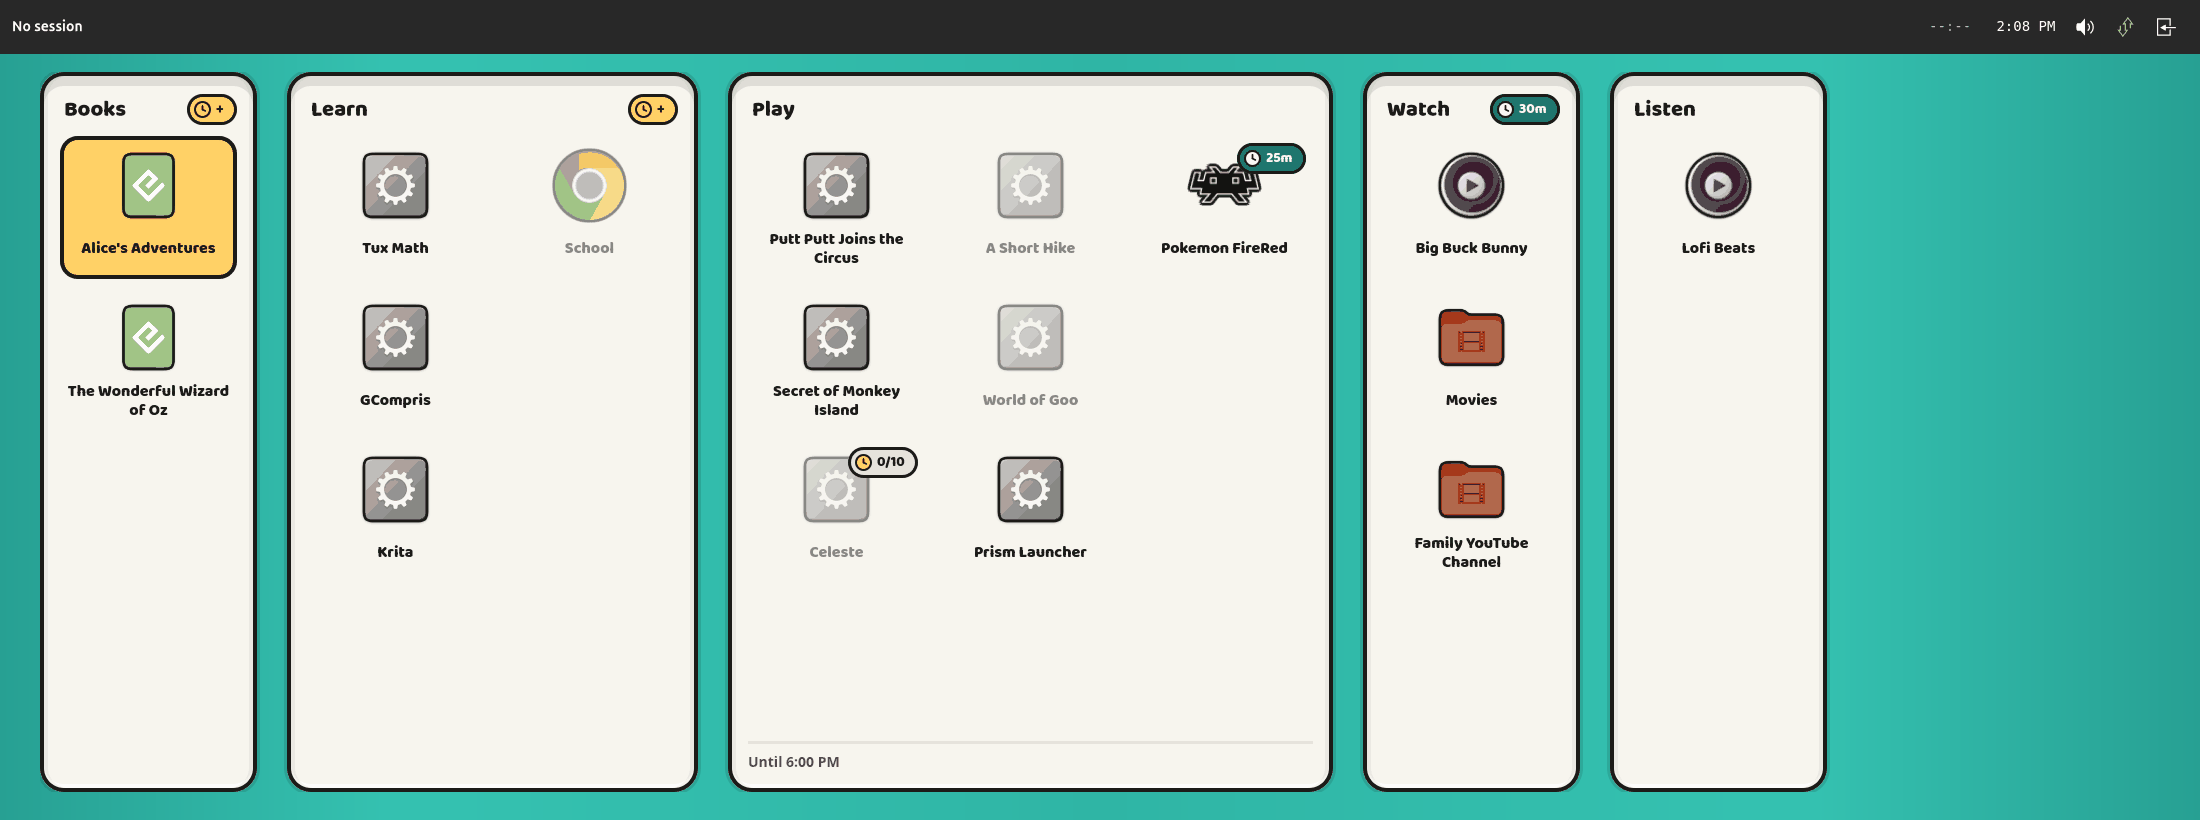
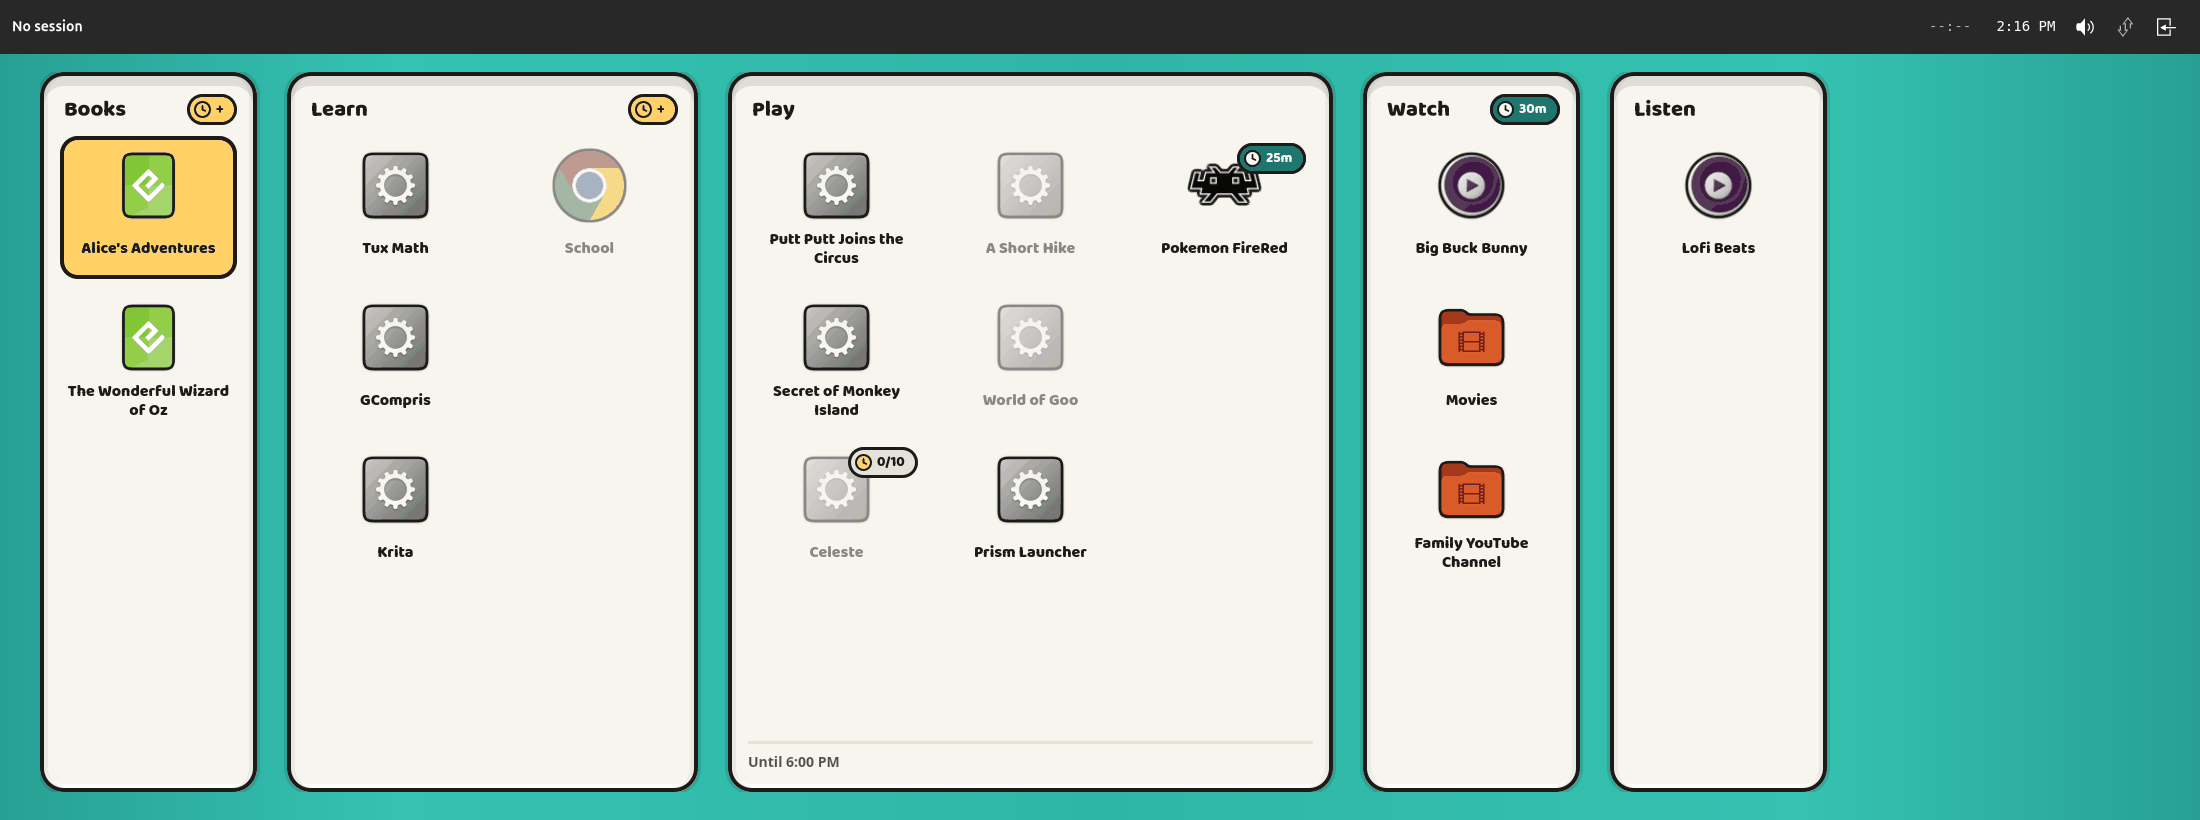
Fade the row's edges, and make the chevron chip yellow (#207)
Two faults found by looking at the screenshots rather than the code.

## The edges did not fade

Layout rule 5 and §7 of the brief both call for the overflowing edge of the row
to fade under the chevron chip. Only the chip was built, and the acceptance line
"fade + chip appear only on overflow" got ticked on the strength of half of it —
a compartment clipped by the viewport ended on a hard vertical cut.

`.lb-field__fade` is a pair of gradient overlays, enamel at the outer edge to
nothing inwards, shown on exactly the condition the chips are and stacked under
them. They are `can_target(false)`, so they never eat a press meant for the
compartment beneath.

The far stop is `rgba(39, 160, 147, 0)` rather than `transparent`: `transparent`
is transparent *black*, and a gradient interpolating to it dips grey on the way
out.

## The chip was white

And had been in every screenshot taken so far. `.lb-more` set
`background-color` but not `background-image`, and the GTK theme paints a
button's own gradient straight over the colour. `.lb-item` and `.lb-button` had
already been given `background-image: none` for exactly this reason; this one
was missed. Any control the branding recolours needs both.

## Screenshots

Regenerated with both fixes. `selection.png` is also reshot: its fixture was
labelled "Celeste", which put a real activity's name on a `/bin/true` process
wearing an icon Celeste does not have. It is "Example Activity" now, and the
[…]

diff --git a/crates/lunchbox-launcher-ui/src/field.rs b/crates/lunchbox-launcher-ui/src/field.rs
@@ -106,6 +106,10 @@ mod imp {
         pub row: gtk4::Box,
         pub more_left: gtk4::Button,
         pub more_right: gtk4::Button,
+        /// The soft edge the row disappears under, one per side. Shown with
+        /// the chip above it, and on the same condition.
+        pub fade_left: gtk4::Box,
+        pub fade_right: gtk4::Box,
         pub stacks: RefCell<Vec<Stack>>,
         /// (stack, row within it). Meaningless when `stacks` is empty.
         pub cursor: Cell<(usize, usize)>,
@@ -129,6 +133,8 @@ mod imp {
                 row: gtk4::Box::new(gtk4::Orientation::Horizontal, 0),
                 more_left: gtk4::Button::new(),
                 more_right: gtk4::Button::new(),
+                fade_left: gtk4::Box::new(gtk4::Orientation::Vertical, 0),
+                fade_right: gtk4::Box::new(gtk4::Orientation::Vertical, 0),
                 stacks: RefCell::new(Vec::new()),
                 cursor: Cell::new((0, 0)),
                 on_launch: Rc::new(RefCell::new(None)),
@@ -165,6 +171,25 @@ mod imp {
             self.scroller.set_hexpand(true);
             self.scroller.set_vexpand(true);
 
+            // The fade goes on before the chips, so the chips sit above it.
+            // A compartment clipped by the viewport edge would otherwise end
+            // on a hard vertical cut; under the fade it runs out of the tin
+            // instead, which is what says "there is more this way" before the
+            // chip is even read.
+            for (fade, modifier, align) in [
+                (&self.fade_left, "lb-field__fade--left", gtk4::Align::Start),
+                (&self.fade_right, "lb-field__fade--right", gtk4::Align::End),
+            ] {
+                fade.add_css_class("lb-field__fade");
+                fade.add_css_class(modifier);
+                fade.set_halign(align);
+                fade.set_valign(gtk4::Align::Fill);
+                fade.set_visible(false);
+                // Decoration only: it must never eat a click meant for the
+                // compartment underneath it.
+                fade.set_can_target(false);
+            }
+
             for (button, icon, align) in [
                 (&self.more_left, "pan-start-symbolic", gtk4::Align::Start),
                 (&self.more_right, "pan-end-symbolic", gtk4::Align::End),
@@ -181,6 +206,8 @@ mod imp {
 
             let overlay = gtk4::Overlay::new();
             overlay.set_child(Some(&self.scroller));
+            overlay.add_overlay(&self.fade_left);
+            overlay.add_overlay(&self.fade_right);
             overlay.add_overlay(&self.more_left);
             overlay.add_overlay(&self.more_right);
             overlay.set_parent(obj.upcast_ref::<gtk4::Widget>());
@@ -489,9 +516,13 @@ impl LauncherField {
         // A pixel of slack: floating-point adjustment values land a hair off
         // their bounds, and a chip that never quite goes away is worse than one
         // that disappears a pixel early.
-        imp.more_left.set_visible(adj.value() > 1.0);
-        imp.more_right
-            .set_visible(adj.value() + adj.page_size() < adj.upper() - 1.0);
+        let more_left = adj.value() > 1.0;
+        let more_right = adj.value() + adj.page_size() < adj.upper() - 1.0;
+        imp.more_left.set_visible(more_left);
+        imp.more_right.set_visible(more_right);
+        // The fade and its chip say the same thing, so they appear together.
+        imp.fade_left.set_visible(more_left);
+        imp.fade_right.set_visible(more_right);
     }
 
     /// Follow the adjustment, so the chips are right after a pointer or touch

diff --git a/crates/lunchbox-launcher-ui/src/theme.rs b/crates/lunchbox-launcher-ui/src/theme.rs
@@ -162,9 +162,38 @@ window.lb-launcher {
     margin: 0;
 }
 
+/* The edge the row runs out under, at whichever side it continues past.
+
+   Enamel at the outer edge fading to nothing inwards, so a compartment clipped
+   by the viewport dissolves into the field rather than ending on a hard
+   vertical cut. The colour is the *edge* stop of the field's own sheen
+   (#27A093), because that is the enamel this sits on top of.
+
+   `rgba(39, 160, 147, 0)` rather than `transparent`: GTK interpolates a
+   gradient through its stop colours, and `transparent` is transparent *black*,
+   so the fade would dip grey on its way out. */
+.lb-field__fade {
+    min-width: 56px;
+}
+
+.lb-field__fade--right {
+    background-image: linear-gradient(to right,
+        rgba(39, 160, 147, 0), rgba(39, 160, 147, 1));
+}
+
+.lb-field__fade--left {
+    background-image: linear-gradient(to left,
+        rgba(39, 160, 147, 0), rgba(39, 160, 147, 1));
+}
+
 /* The yellow chevron chip at the edge the row continues past. */
 .lb-more {
     background-color: #FFD166;
+    /* The GTK theme gives a button its own `background-image` gradient, which
+       paints straight over a `background-color` and left this chip white. Any
+       control the branding recolours has to clear the image as well as set the
+       colour — `.lb-item` and `.lb-button` already do. */
+    background-image: none;
     border: 4px solid #1C1B18;
     border-radius: 999px;
     min-width: 48px;

diff --git a/docs/ai/history/2026-09-19 004 launcher-branding (#207).md b/docs/ai/history/2026-09-19 004 launcher-branding (#207).md
@@ -17,10 +17,11 @@ in the repository.
 
 ## What it looks like
 
-Screenshots in `2026-09-19-004-launcher-branding/` beside this note, taken from
-`config.example.toml` on a development machine — which is why most activities
-wear the theme's generic fallback icon rather than their own: Steam, RetroArch,
-GCompris and the rest are not installed here.
+Screenshots in `2026-09-19-004-launcher-branding/` beside this note. The first
+two are `config.example.toml` on a development machine — which is why most
+activities wear the theme's generic fallback icon rather than their own: Steam,
+RetroArch, GCompris and the rest are not installed here. The third is a
+synthetic fixture, and says so.
 
 ![The home screen at 1280x720](2026-09-19-004-launcher-branding/home.png)
 
@@ -37,9 +38,17 @@ floor.
 
 ![A locked and an unlocked activity, both selected](2026-09-19-004-launcher-branding/selection.png)
 
-The same activity selected, locked and unlocked. The selection is identical in
-both; only the icon and the name dim. See "What 'selected' looked like" below
-for why that matters.
+The same activity selected, locked (left) and unlocked (right). The selection is
+identical in both; only the icon and the name dim. See "What 'selected' looked
+like" below for why that matters.
+
+This one is **not** from `config.example.toml`: it is a throwaway config holding
+one `/bin/true` process called "Example Activity", built so that the item to be
+inspected is the launcher's own initial selection — see "Driving the launcher
+when the harness will not". The controller is the icon theme's generic
+`applications-games`, named by that fixture. An earlier cut of this screenshot
+labelled the fixture "Celeste", which was worse than useless: it put a real
+activity's name on a fake entry wearing an icon Celeste does not have.
 
 ## Scope, as agreed before building
 
@@ -331,6 +340,27 @@ header with all three members at 50%, then `30m` with all three live.
 With it, every badge in the vocabulary is on screen at once — earn on Books and
 Learn, a `25m` bank and a `0/10` need on two entries in Play, a `30m` bank on
 Watch's header, and nothing on Listen, which is ungated.
+
+## Two things a reviewer's eye caught that mine had not
+
+**The row's edges did not fade.** Layout rule 5 and §7 both call for the
+overflowing edge to fade under the chevron chip; only the chip was built, and
+the acceptance line "fade + chip appear only on overflow" was ticked off on the
+strength of half of it. A compartment clipped by the viewport ended on a hard
+vertical cut. `.lb-field__fade` is now a pair of gradient overlays, enamel at
+the outer edge to nothing inwards, shown on exactly the condition the chips are
+and sitting under them.
+
+Worth knowing for anything else written against this palette: the far stop is
+`rgba(39, 160, 147, 0)` and not `transparent`, because `transparent` is
+transparent *black* and a gradient interpolating to it dips grey on the way out.
+
+**The chevron chip was white, not yellow** — and had been all along, in every
+screenshot taken before this. `.lb-more` set `background-color` but not
+`background-image`, and the GTK theme paints a button's own gradient straight
+over the colour. `.lb-item` and `.lb-button` had already been given
+`background-image: none` for exactly this reason; the chip was missed. Any
+control the branding recolours needs both.
 
 ## Two places the implementation departs from the mockup
 
